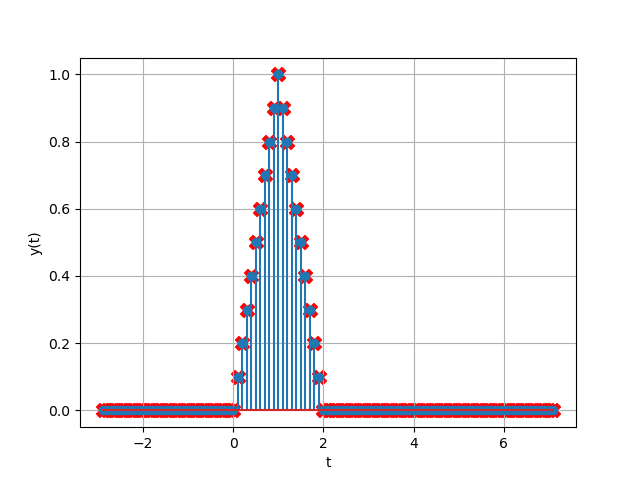
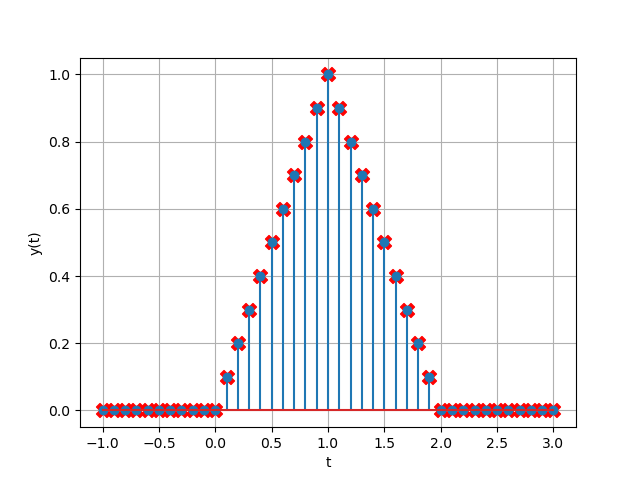
1149_Feb-27

diff --git a/gate.bm.49/codes/generate.c b/gate.bm.49/codes/generate.c
@@ -42,13 +42,13 @@ void main(){
 	FILE *fptr;
 	fptr = fopen("Values.txt","w");
 	//int *ptr = (int*)malloc(int(s))
-	float t = -3;
-	for(int i = 0; i <=100 ; i++){
+	float t = -1.1;
+	for(int i = 0; i <=40 ; i++){
 		t = t+ (1/10.0);
 		//printf("%f ,", t);
 		float value1 = trap_integration(t-1,t,100000);
 		float value2 = t*u(t,0) + (t-2)*u(t,2) -2*(t-1)*u(t,1);
-		fprintf(fptr, "%.3f %.6f %.6f\n", t, value1, value2);
+		fprintf(fptr, "%f %f %f\n", t, value1, value2);
 	}
 	fclose(fptr);
 }
